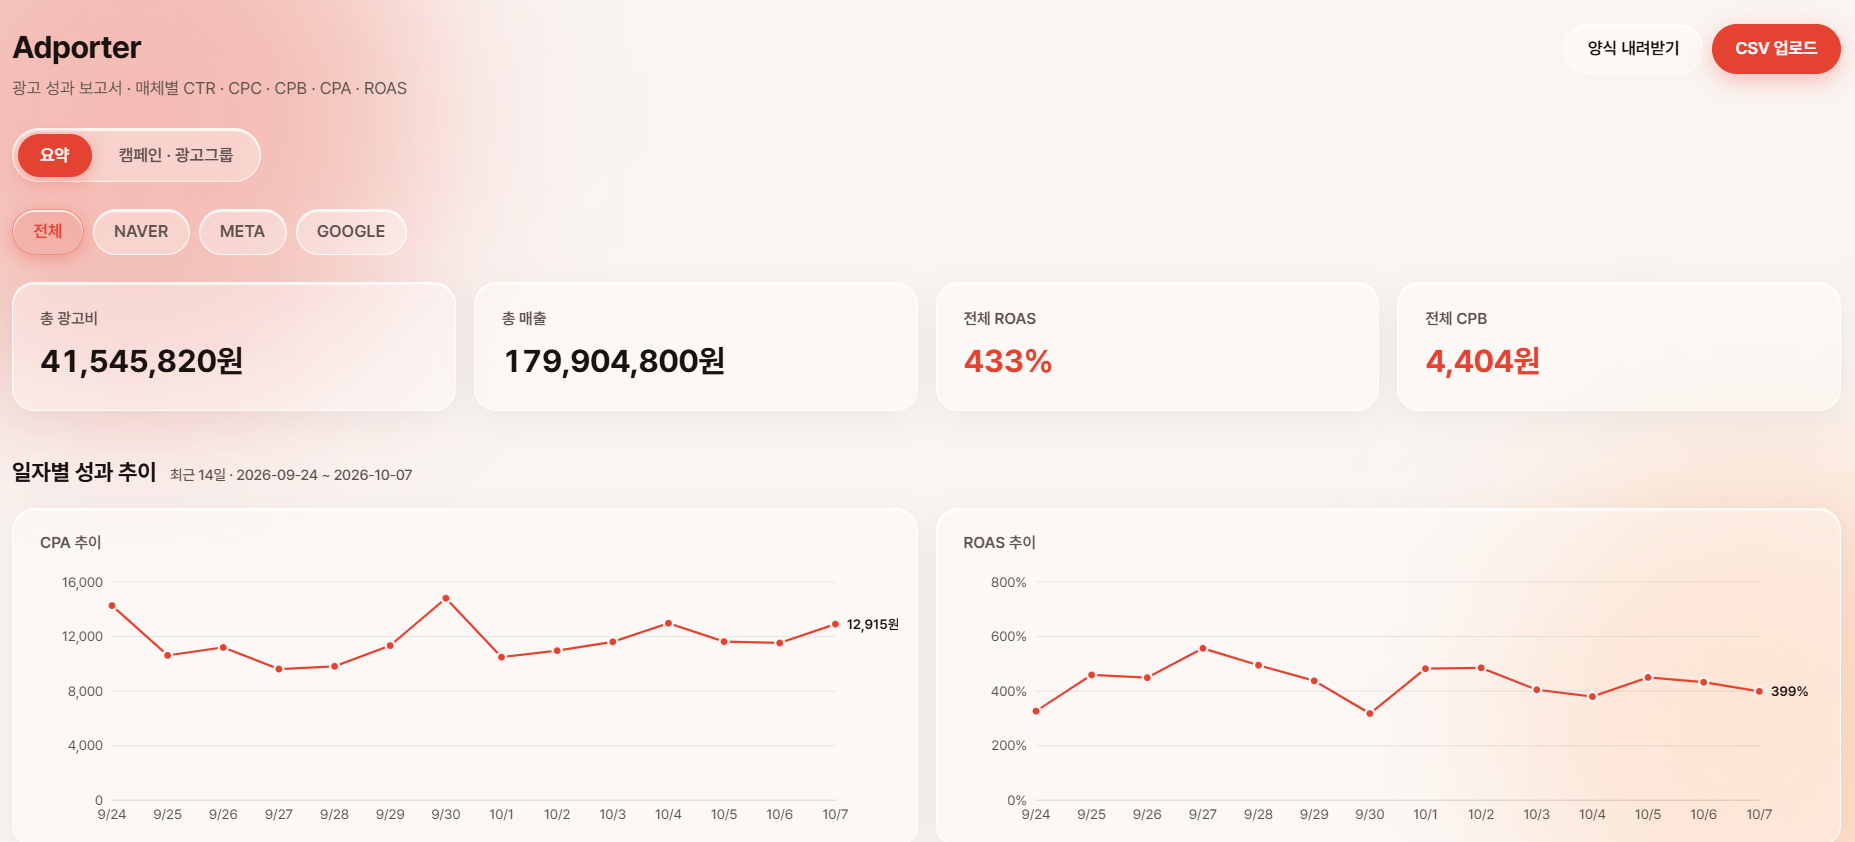
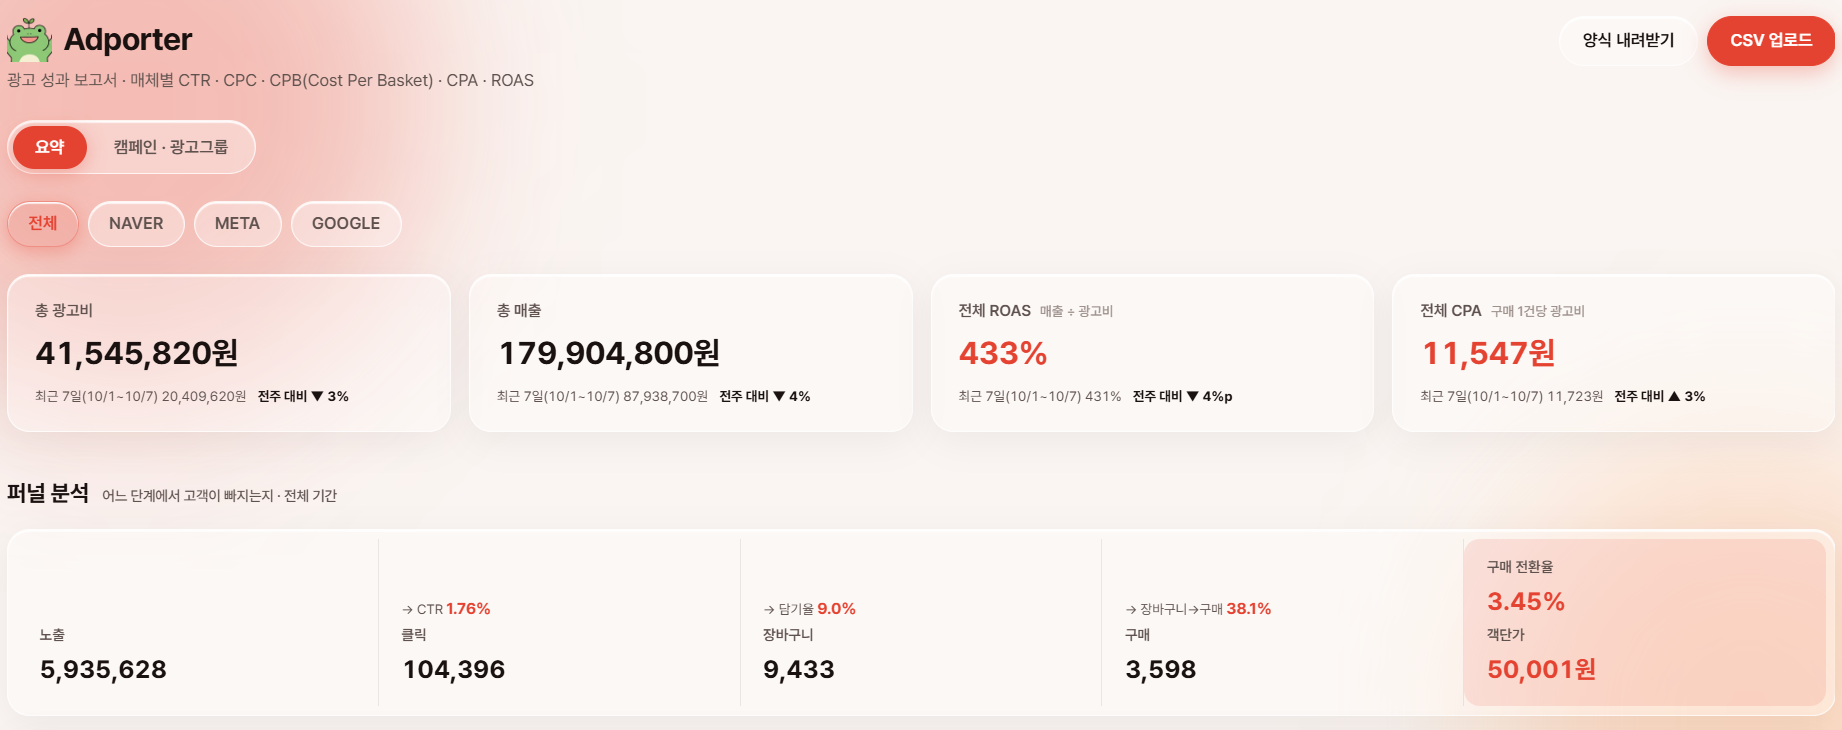
Update README screenshot with funnel and week-over-week cards

diff --git a/README.md b/README.md
@@ -7,7 +7,7 @@
 
 ## 화면
 
-![Adporter 요약 페이지: 합계 카드와 일자별 CPA·ROAS 추이](docs/overview.png)
+![Adporter 요약 페이지: 합계 카드(최근 7일·전주 대비)와 퍼널 분석](docs/overview.png)
 
 ## 주요 기능
 
